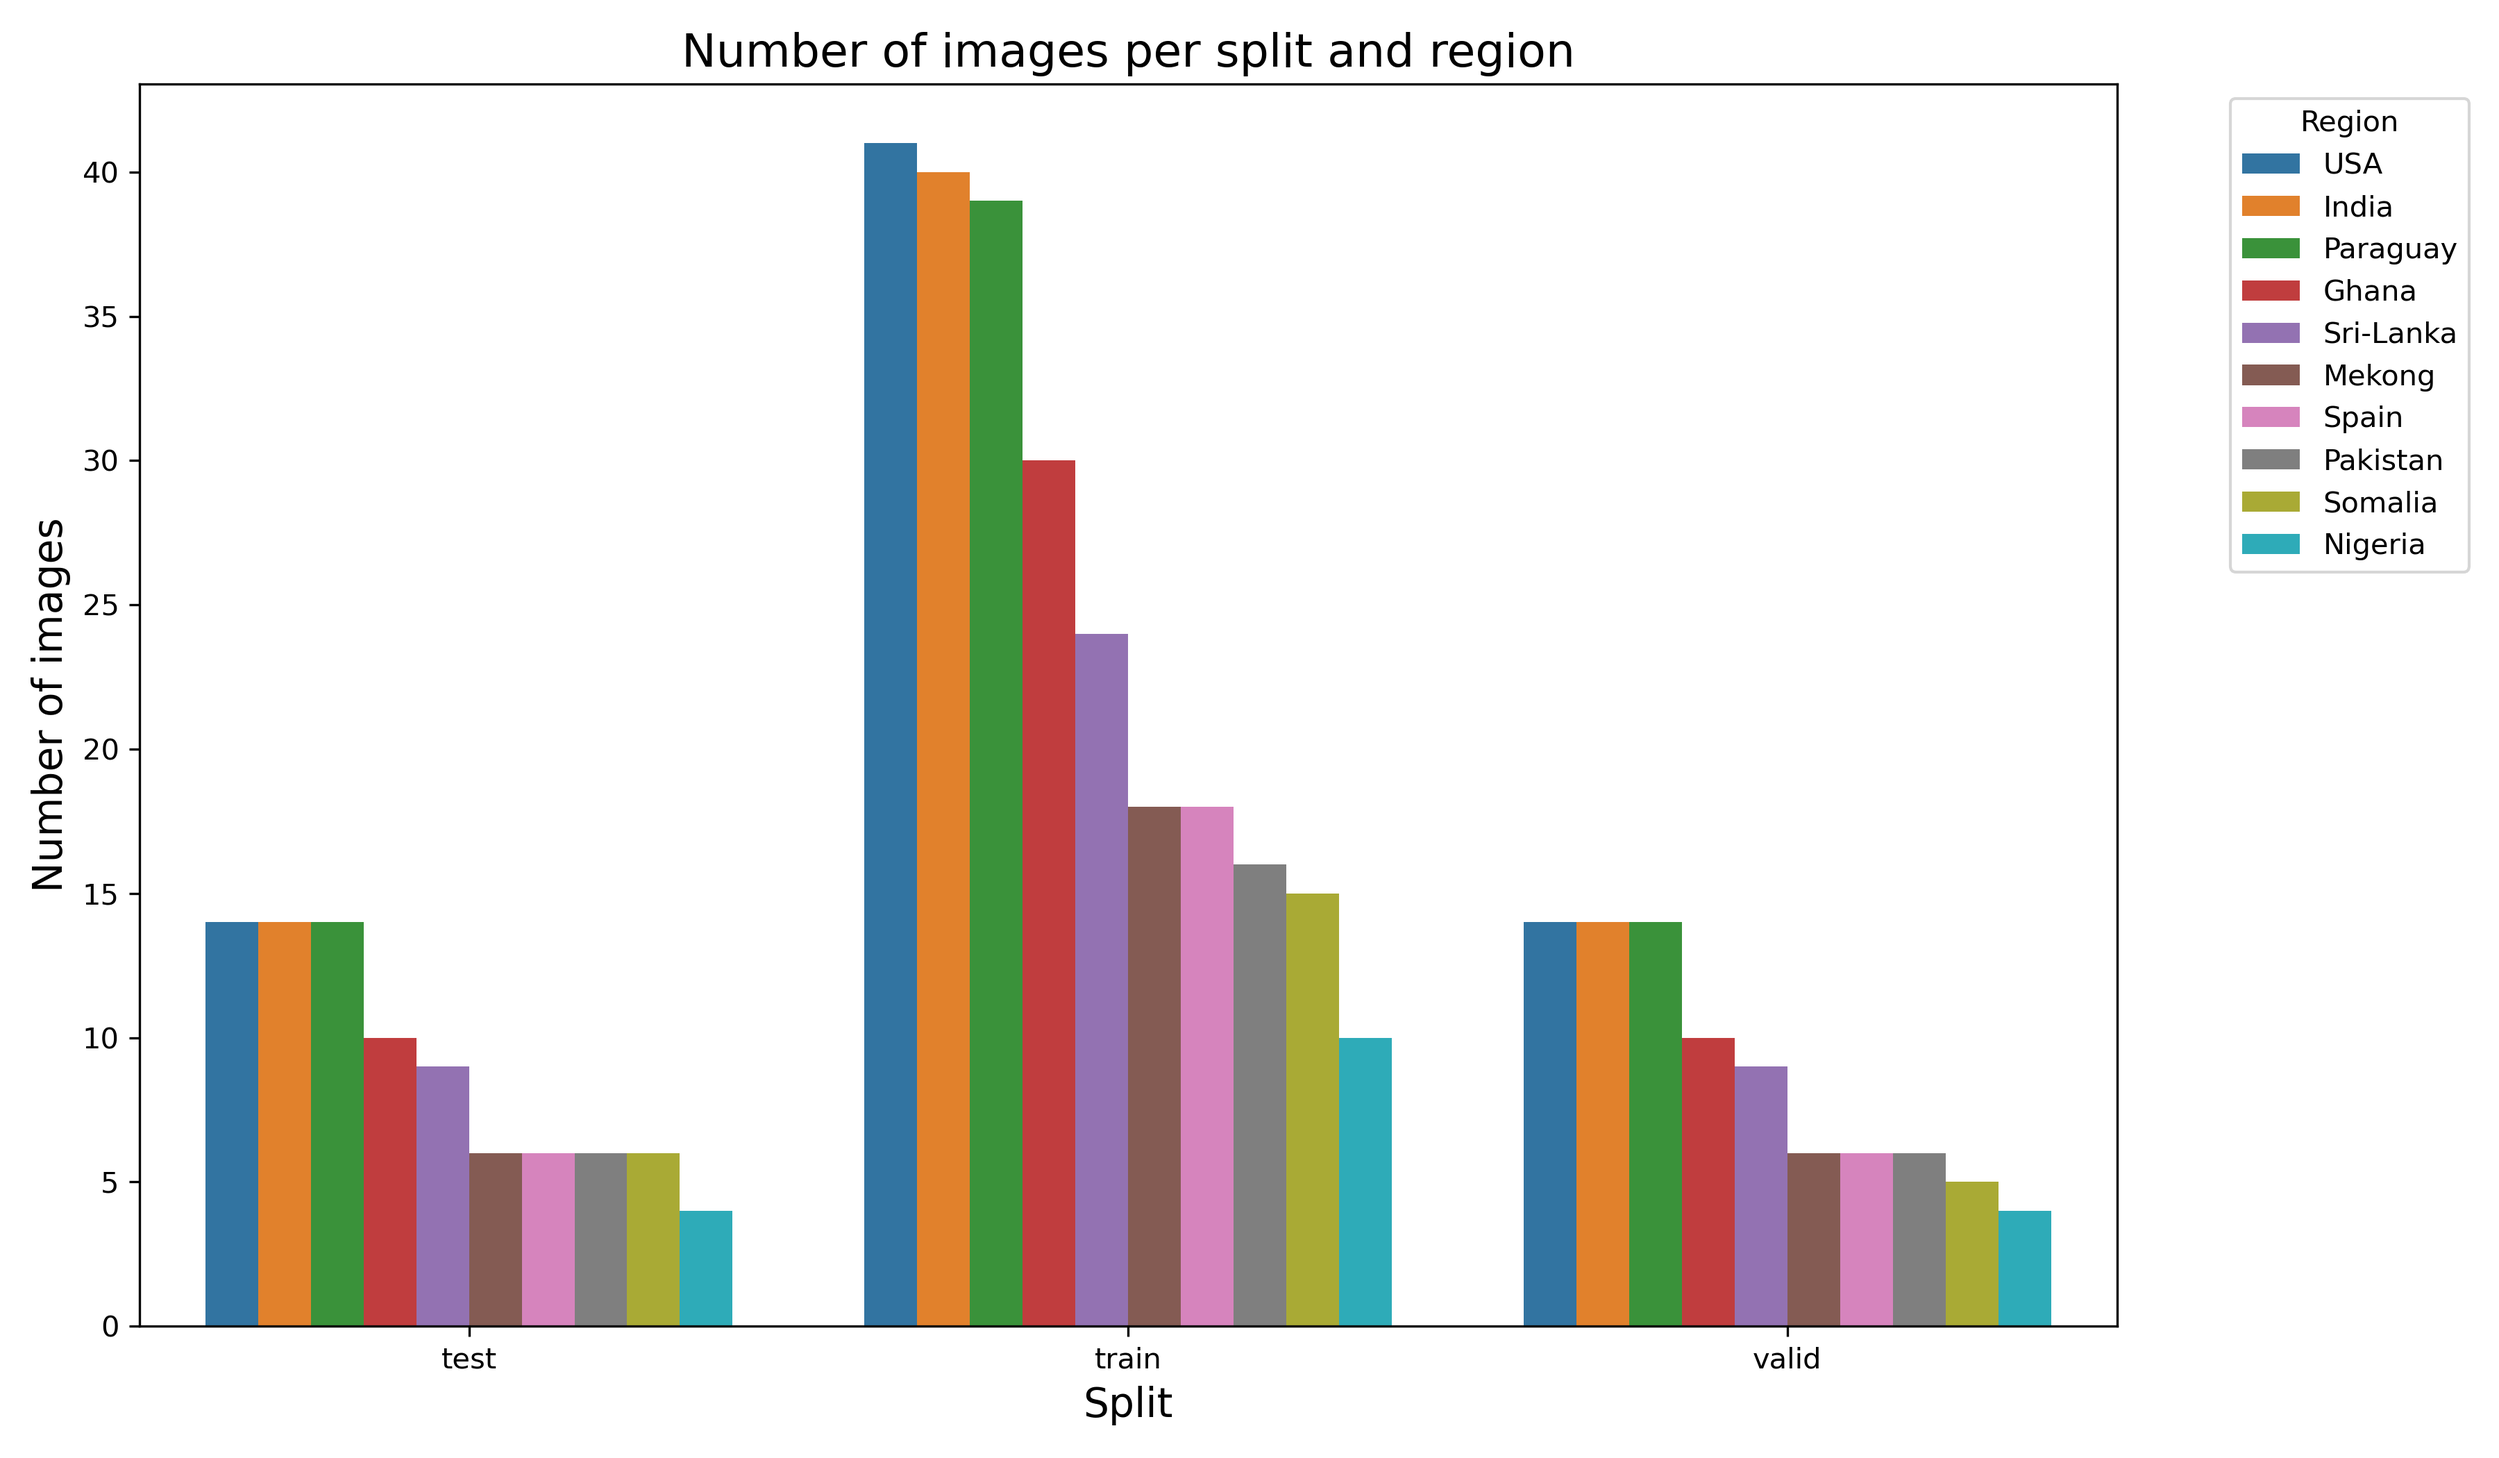
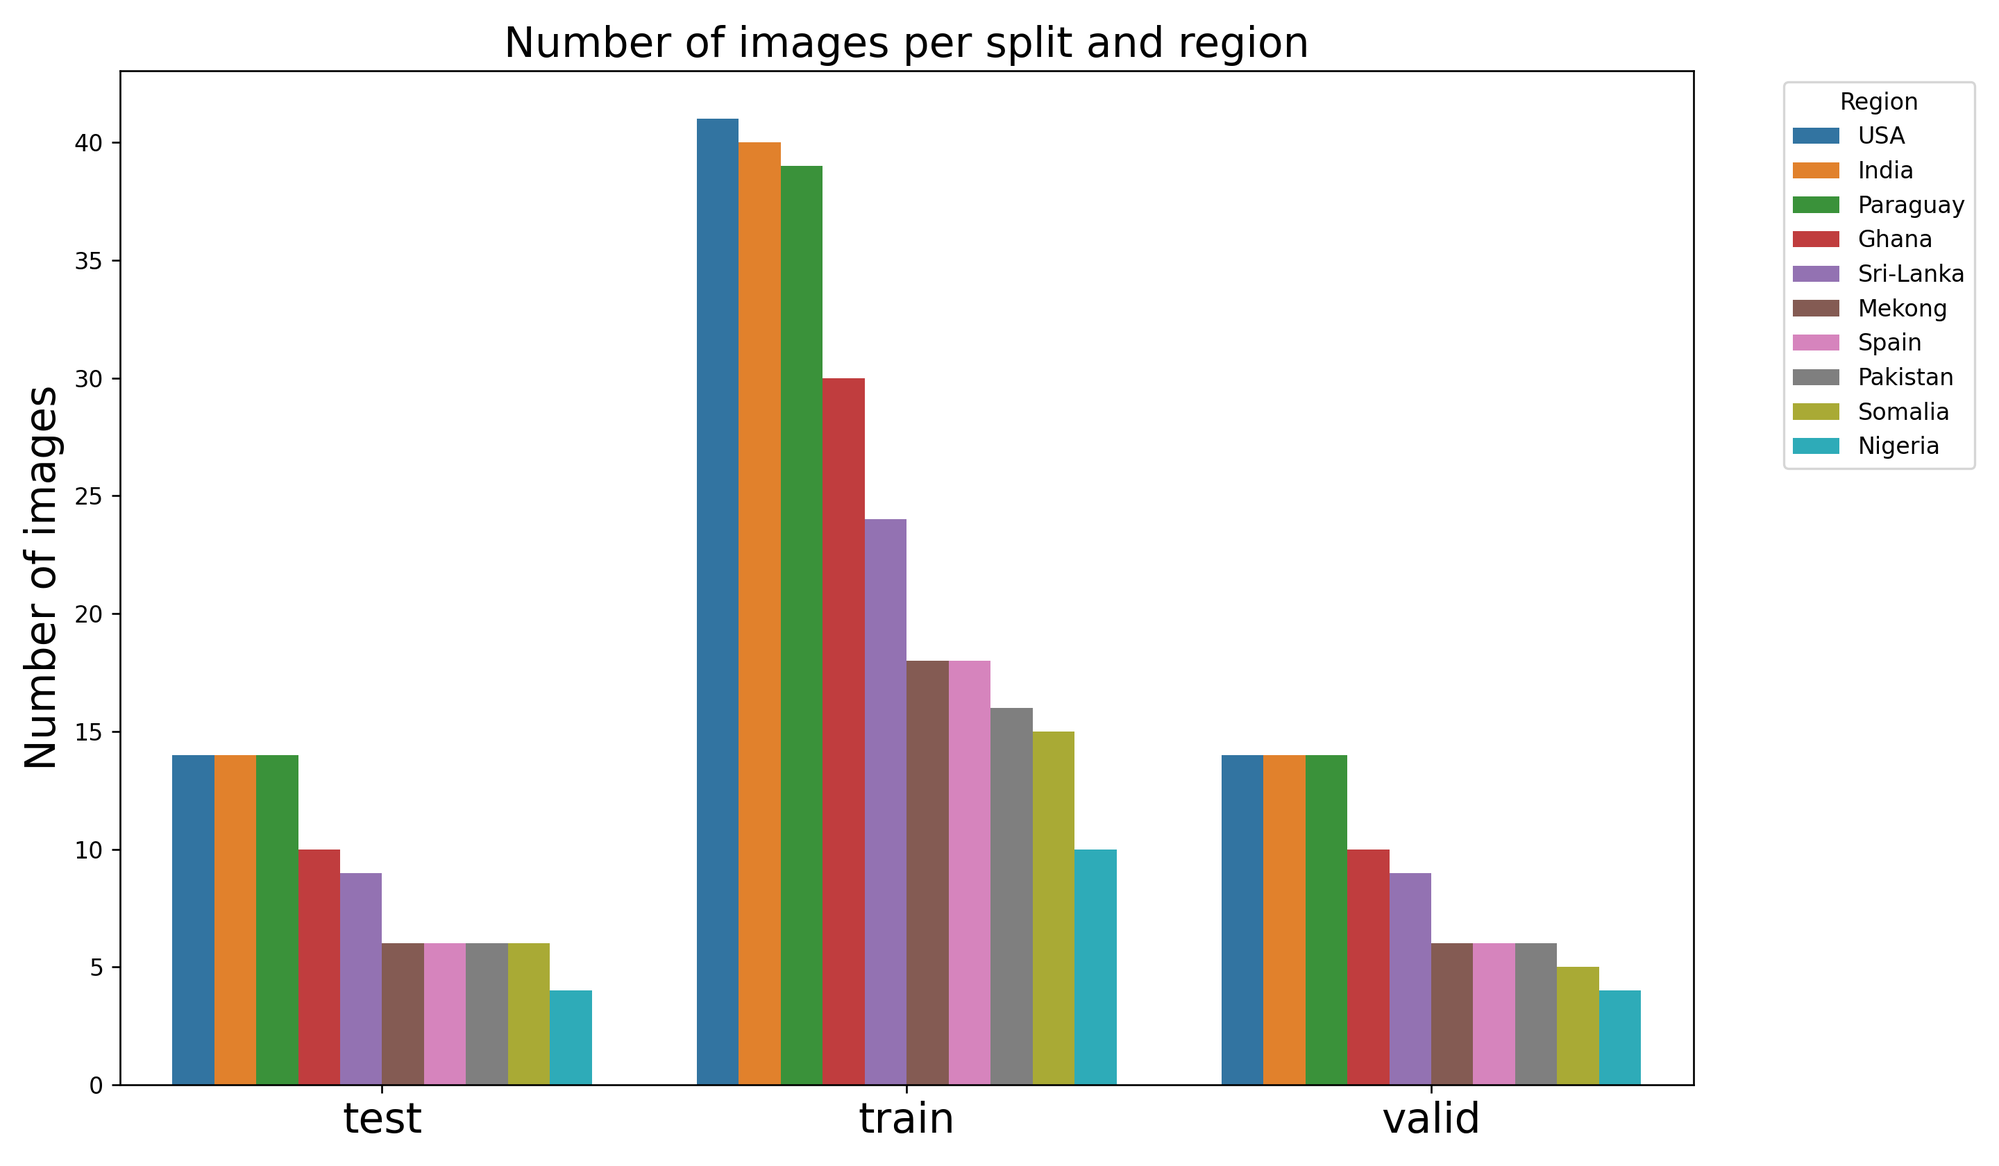
Initial commit

diff --git a/sentfloods/step1_stats.py b/sentfloods/step1_stats.py
@@ -64,12 +64,13 @@ def step1_number_of_images():
 
     fig = plt.figure(figsize=(12, 7))
     sns.barplot(x='split', y='imageId', hue='region', data=df_stats_order, hue_order=df_order_freq['region'])
-    plt.title('Number of images per split and region', fontsize=16)
-    plt.xlabel('Split', fontsize=14)
-    plt.ylabel('Number of images', fontsize=14)
+    plt.title('Number of images per split and region', fontsize=18)
+    plt.xlabel('', fontsize=16)
+    plt.ylabel('Number of images', fontsize=18)
     plt.legend(title='Region', bbox_to_anchor=(1.05, 1), loc='upper left')
+    plt.xticks(fontsize=18)
     plt.tight_layout()
-    fig.savefig(os.path.join(output_path,'step1_images_per_split_and_region.png'), dpi=300)
+    fig.savefig(os.path.join(output_path,'step1_images_per_split_and_region.png'), dpi=240)
     plt.show()
 
     df_stats_order.to_csv(os.path.join(output_path,'step1_df_num_of_images_summary.csv'))
@@ -213,9 +214,10 @@ def step1_water_probability_per_image_persplit():
     # plot hist of water probability in each frame
     fig = plt.figure(figsize=(10, 6))
     plt.hist(df_waterprob['prob_water'].dropna(), bins=50, color='blue', alpha=0.7)
-    plt.title('Water probability per image')
-    plt.xlabel('Water probability (fraction of water pixels)')
-    plt.ylabel('# of images')
+    plt.title('Water probability per image', fontsize=18)
+    plt.xlabel('Water probability (fraction of water pixels)', fontsize=16)
+    plt.xticks(fontsize=16) 
+    plt.ylabel('# of images', fontsize=16)
     plt.grid(True)
     fig.savefig(os.path.join(output_path,'step1_water_probability_per_image.png'), dpi=300)
     plt.show()
